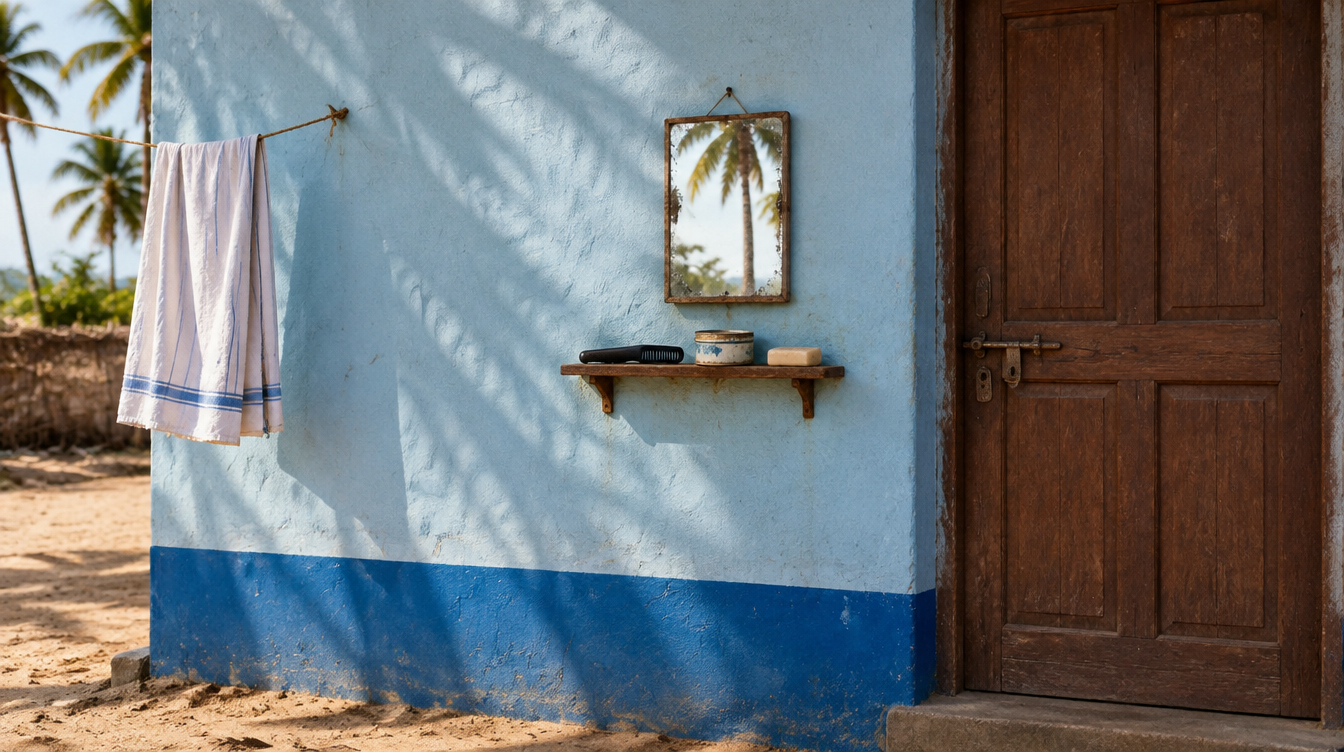
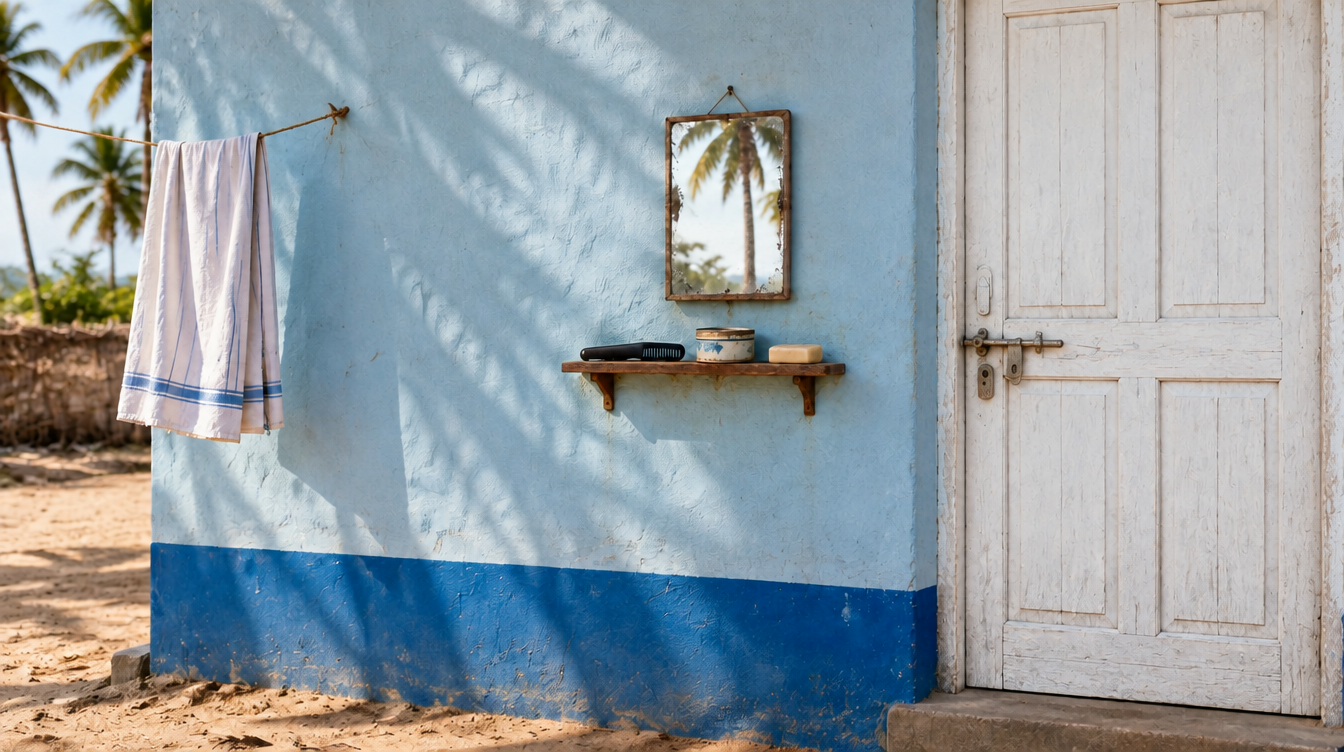
Ananthu: backyard plates v2 — plastic bucket and mug, taller well posts, white back door

diff --git a/INDEX.md b/INDEX.md
@@ -79,8 +79,8 @@ Status: `approved` · `waiting for approval` · `retired`
 | `@angle1cb2` | Start frame made by Ananthu (ChatGPT): from the stove end, Rosamma front-left stirring, Antony facing her by the open side door | Camera-angle reference for 1C-b2 (front view from the stove end) and 1C-c | `scenes/showreel/approved/1C-b2-start-frame-ananthu.png` (earlier Higgsfield version: 1C-b2-start-frame.png) | Ananthu (ChatGPT image) | 2026-11-05 | register on platform |
 | `@endframe1cb2` | Last frame of approved 1C-b2 (close view of Antony, front angle) | START frame of 1C-c | `scenes/showreel/approved/1C-b2-end-frame.png` | Ananthu | 2026-11-05 | register on platform |
 | `@endframe1cc` | Last frame of approved 1C-c (over Rosamma's shoulder, Antony grinning by the window shutter) | START frame of 1D-exit | `scenes/showreel/approved/1C-c-end-frame.png` | Ananthu | 2026-11-06 | register on platform |
-| `@backyardwell` | Behind the house: laterite well with pulley; open-air bathing corner (wet slab, coconut-leaf screen, steel bucket and mug, striped towel) | 2-bath; any shot at the well | `locations/backyard/well.png` | Ananthu | 2026-11-06 | proposed |
-| `@backyardmirror` | Back wall by the brown back door: small wooden-framed mirror, ledge with comb, coconut-oil tin and soap | 2-mirror (combing, mirror → face) | `locations/backyard/mirror.png` | Ananthu | 2026-11-06 | proposed |
+| `@backyardwell` | Behind the house: laterite well with pulley; tall posts and pulley; open-air bathing corner (wet slab, coconut-leaf screen, blue plastic bucket, red plastic mug, striped towel); white back door | 2-bath; any shot at the well | `locations/backyard/well.png` | Ananthu | 2026-11-06 | proposed |
+| `@backyardmirror` | Back wall by the white back door: small wooden-framed mirror, ledge with comb, coconut-oil tin and soap | 2-mirror (combing, mirror → face) | `locations/backyard/mirror.png` | Ananthu | 2026-11-06 | proposed |
 | `@wallclock` | Old round wall clock, black bezel, cream dial | Only when the clock is on screen; it lives on the front wall of Antony's room above the foot of the cot. Never in any other room | `props/wallclock/sheet.png` | Ananthu | 2026-10-29 | approved |
 | `@antonybag` | Antony's large faded beige canvas shoulder bag, slouchy, half full, one long canvas strap (bag alone, plain background) | Every shot where Antony carries it in frame (with @antony20): strap over his LEFT shoulder, bag at his left hip; also write it in full (L64) | `props/antonybag/prop.png` | Ranjith | 2026-11-06 | approved |
 | `@uru` | The hero uru: Beypore wooden dhow, high curved bow, weathered blue-grey hull with rust streaks, red-oxide waterline, one mast, carved two-deck wooden deckhouse aft; no lettering | Every shot where Antony's vessel is on screen (SB019 on); lock its size when it is far away | `props/uru/prop.png` | Ranjith | 2026-11-06 | approved |

diff --git a/locations/backyard/card.md b/locations/backyard/card.md
@@ -5,12 +5,16 @@ created_by: Ananthu (Higgsfield GPT Image 2.5, from the house back elevation)
 created: 2026-11-06
 status: proposed — Ananthu to approve and register
 images: [well.png, mirror.png]
+alternatives: [alternatives/well-v1-steel-brown.png, alternatives/mirror-v1-brown-door.png]  # v1, not used
 ---
 
 # Backyard behind the house (bath + mirror)
-Matches the BACK elevation in `locations/house-exterior/elevations.webp`: pale sky-blue walls, deep blue base band, brown wooden back door, clothes line, palms, sea between the palms.
+Matches the BACK elevation in `locations/house-exterior/elevations.webp`: pale sky-blue walls, deep blue base band, WHITE back door (Ananthu, 2026-11-06 — house doors are white), clothes line, palms, sea between the palms.
 
-- `@backyardwell` — laterite well with crossbar, pulley, coir rope and a steel bucket; beside it the open-air bathing corner: wet laterite slab, woven coconut-leaf mat screen on bamboo poles (two sides), steel bucket of water and a small steel mug, a cotton towel with faint blue stripes on the screen.
-- `@backyardmirror` — the back wall beside the brown back door: a small old wooden-framed mirror on a nail at face height; below it a narrow wooden ledge with a black comb, a small tin of coconut oil and a bar of soap; a towel on the line at the left.
+- `@backyardwell` — laterite well with two tall wooden posts (about 2 m), crossbar, pulley above head height, coir rope and a blue plastic bucket; beside it the open-air bathing corner: wet laterite slab, woven coconut-leaf mat screen on bamboo poles (two sides), steel bucket of water and a small steel mug, a cotton towel with faint blue stripes on the screen.
+- `@backyardmirror` — the back wall beside the white back door: a small old wooden-framed mirror on a nail at face height; below it a narrow wooden ledge with a black comb, a small tin of coconut oil and a bar of soap; a towel on the line at the left.
 
 Use: 2-bath (shoulders-up bucket bath) and 2-mirror (combing at the mirror, mirror → face).
+
+## v2 (Ananthu's corrections, 2026-11-06)
+Plastic bucket and mug instead of steel; taller well posts; white back door.

diff --git a/continuity/showreel.md b/continuity/showreel.md
@@ -39,3 +39,4 @@ State of the story world after the last approved shot. Update when a shot is app
 - 2026-11-06: SB021 (scene 14) split into three generations: s13-sh03 Antony walks up the gangplank and steps onto the deck beside the deckhouse (silent, `@harbourc3plate`, same view as SB020's end); s13-sh04 Aashaan, by the deckhouse lashing sacks, looks toward the bow (just RIGHT of the lens): മുന്നിലെ കെട്ടൊന്നു നോക്കിയേ, ആന്റണീ.; s13-sh05 Antony kneels at the bow's mooring bitts, tests the knot, looks back aft (just LEFT of the lens): നോക്കി, ആശാനേ. എല്ലാം ഉഷാർ. Aashaan's look is Ananthu's sheet `@aashaan` (registered 2026-11-06): grey hair combed back, grey moustache, cream half-sleeve shirt open over a white vest, spectacles in the vest, white towel on his LEFT shoulder, white mundu, brown sandals. SB023's text (checked lungi, cross, barefoot) predates the sheet and should be updated to it. Deck: `@urudeckc1plate` (looking aft, quay RIGHT) and `@urudeckc2plate` (looking forward, quay LEFT). Next: SB022, the uru leaves.
 - 2026-11-06: 1C-c v5 APPROVED. End: Antony by the window shutter, hands just dropped from scratching his head, half-turned toward the passage doors; Rosamma stirring. Next: Antony's exit line, then he leaves for his bath.
 - 2026-11-06: 1D-exit v2.1 APPROVED — Antony leaves the kitchen for his bath ("ഓ, ഈ അമ്മ! ഞാൻ പെട്ടെന്ന് പോയി കുളിച്ചിട്ട് വരട്ടെ."); Rosamma, back to camera, "ആ, പോ." SCENE 1 COMPLETE (1A, 1B-1, 1B-3, 1C-a, 1C-b, 1C-b2, 1C-c, 1D-exit). Next: Scene 2 — Antony dressed (@antony20), passage/yard with Rosamma.
+- 2026-11-06: House back door is WHITE (Ananthu) — the back elevation sheet shows it brown; follow white. Bath things are plastic (blue bucket, red mug), not steel.
